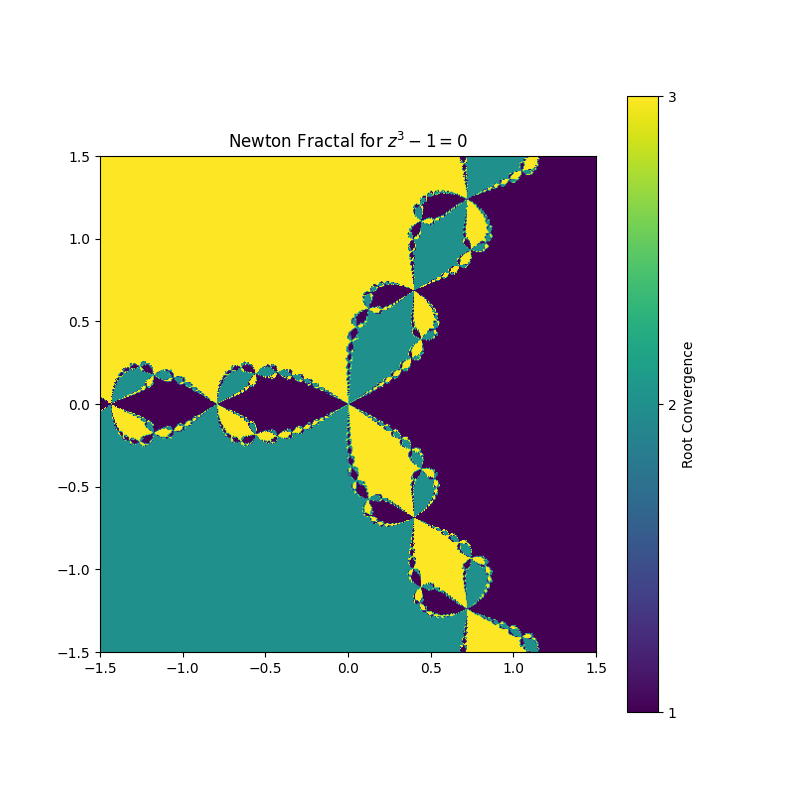
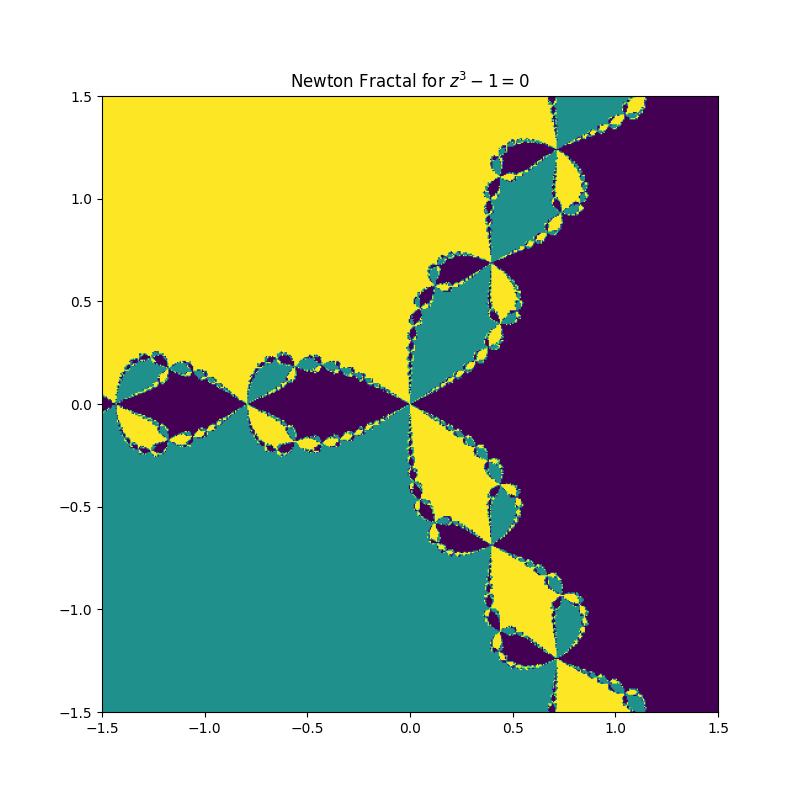
a couple minor changes

diff --git a/NewtonFractal.py b/NewtonFractal.py
@@ -37,7 +37,7 @@ for k in range(max_iterations):
 # Plot the fractal
 plt.figure(figsize=(8, 8))
 plt.imshow(fractal_image, extent=(-1.5, 1.5, -1.5, 1.5), cmap="viridis")
-plt.colorbar(ticks=[1, 2, 3], label="Root Convergence")
+#plt.colorbar(ticks=[1, 2, 3], label="Root Convergence")
 plt.title("Newton Fractal for $z^3 - 1 = 0$")
 # Save the plot as an image
 plt.savefig("newton_fractal.png")
